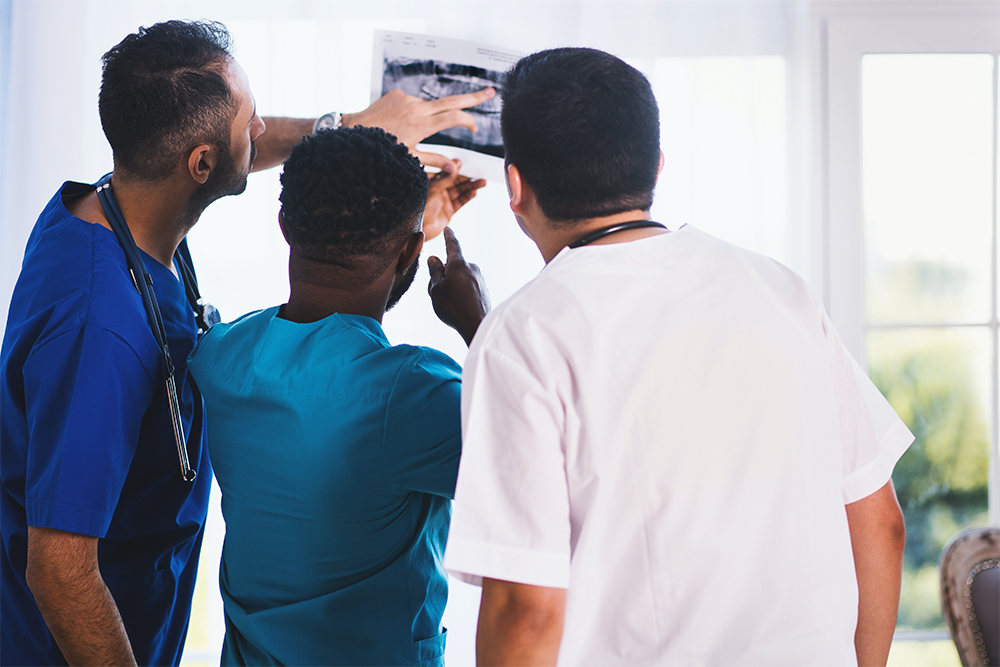
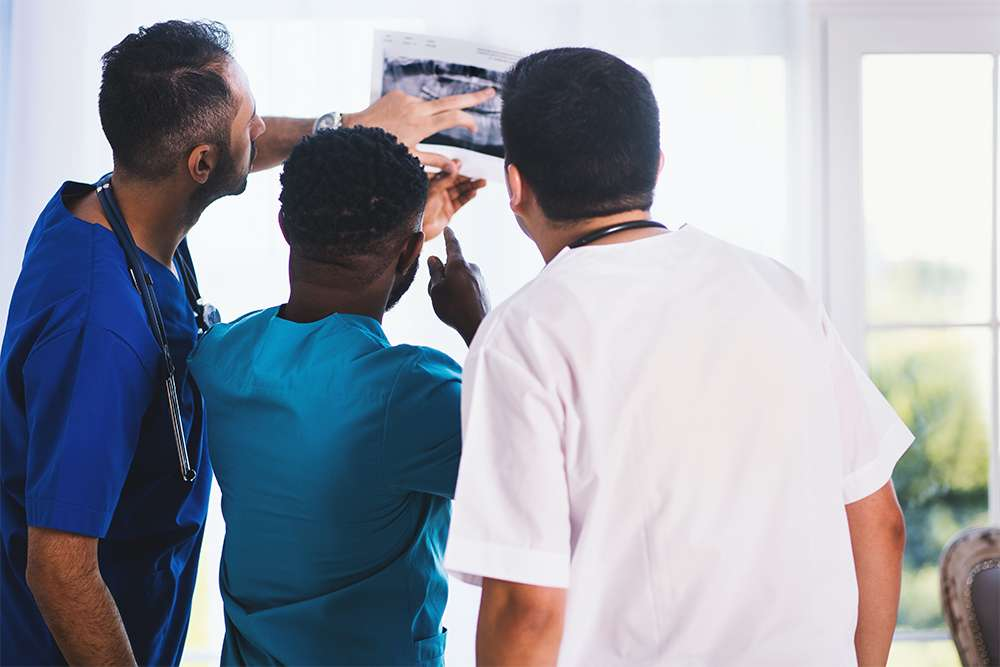
0.1.1

diff --git a/index.html b/index.html
@@ -265,7 +265,7 @@
             <div class="banner">
                 <div class="imagem">
                     <img src='Assets/Imagens/medica_tablet.png' alt="Médica com tablet na mão"
-                        title="Médica com tablet na mão" />
+                        title="Médica com tablet na mão" width="1000px" height="1104px" />
                 </div>
             </div>
         </div>
@@ -283,7 +283,8 @@
             </div>
             <div class="missao">
                 <div class="imagem">
-                    <img src="Assets/Imagens/clinica.jpg" alt="Análise" />
+                    <img src="Assets/Imagens/clinica.jpg" alt="Cliníca Mãe Maria" Title="Cliníca Mãe Maria"
+                        width="1200px" height="800px" />
                 </div>
                 <p>
                     A clínica tem como missão oferecer excelência na realização dos exames de diagnóstico por imagem
@@ -308,7 +309,8 @@
                     <div class="imagem">
                         <img src="Assets/Imagens/selos-qualidade.png"
                             alt="Selos de qualidade e excelência do Colégio Brasileiro de Radiologia e Diagnósticos por Imagem"
-                            title="Selos de qualidade e excelência do Colégio Brasileiro de Radiologia e Diagnósticos por Imagem" />
+                            title="Selos de qualidade e excelência do Colégio Brasileiro de Radiologia e Diagnósticos por Imagem"
+                            width="468px" height="392px" />
                     </div>
                 </div>
                 <p>Conheça os Selos de qualidade e excelência do Colégio Brasileiro de Radiologia e Diagnósticos por
@@ -322,7 +324,9 @@
             </div>
             <div class="equipe">
                 <div class="imagem">
-                    <img src="Assets/Imagens/medico-paciente.png" alt="medico e paciente" />
+                    <img src="Assets/Imagens/medico-paciente.png" alt="Médico cuidando do paciente"
+                    title="Médico cuidando do paciente"
+                    width="1000px" height="984px"  />
                 </div>
                 <div class="pessoas">
                     <div class="pessoa">
@@ -668,20 +672,30 @@
         <div class="container">
             <div class="logos">
                 <img src="Assets/Imagens/planos/bradesco+saude.png" alt="Plano de saúde Bradesco saúde"
-                    title="Plano de saúde Bradesco saúde" />
-                <img src="Assets/Imagens/planos/caesan.png" alt="Plano de saúde CAESAN" title="Plano de saúde CAESAN" />
+                    title="Plano de saúde Bradesco saúde" 
+                    width="150px" height="55px"/>
+                <img src="Assets/Imagens/planos/caesan.png" alt="Plano de saúde CAESAN" title="Plano de saúde CAESAN" 
+                width="150px" height="123px"/>
                 <img src="Assets/Imagens/planos/capesesp.png" alt="Plano de saúde Capesesp"
-                    title="Plano de saúde Capesesp" />
-                <img src="Assets/Imagens/planos/cassi.png" alt="Plano de saúde CASSI" title="Plano de saúde CASSI" />
+                    title="Plano de saúde Capesesp" 
+                    width="150px" height="110px"/>
+                <img src="Assets/Imagens/planos/cassi.png" alt="Plano de saúde CASSI" title="Plano de saúde CASSI" 
+                width="150px" height="75px"/>
                 <img src="Assets/Imagens/planos/celgmed.png" alt="Plano de saúde Celg Med"
-                    title="Plano de saúde Celg Med" />
-                <img src="Assets/Imagens/planos/geap.png" alt="Plano de saúde GEAP" title="Plano de saúde GEAP" />
-                <img src="Assets/Imagens/planos/ipasgo.png" alt="Plano de saúde IPASGO" title="Plano de saúde IPASGO" />
+                    title="Plano de saúde Celg Med" 
+                    width="150px" height="30px"/>
+                <img src="Assets/Imagens/planos/geap.png" alt="Plano de saúde GEAP" title="Plano de saúde GEAP" 
+                width="150px" height="80px"/>
+                <img src="Assets/Imagens/planos/ipasgo.png" alt="Plano de saúde IPASGO" title="Plano de saúde IPASGO" 
+                width="150px" height="42px"/>
                 <img src="Assets/Imagens/planos/posta+saude.png" alt="Plano de saúde Postal Saúde"
-                    title="Plano de saúde Postal Saúde" />
+                    title="Plano de saúde Postal Saúde" 
+                    width="150px" height="102px"/>
                 <img src="Assets/Imagens/planos/saude+caixa.png" alt="Plano de saúde Saúde caixa"
-                    title="Plano de saúde Saúde caixa" />
-                <img src="Assets/Imagens/planos/unimed.png" alt="Plano de saúde Unimed" title="Plano de saúde Unimed" />
+                    title="Plano de saúde Saúde caixa" 
+                    width="150px" height="58px"/>
+                <img src="Assets/Imagens/planos/unimed.png" alt="Plano de saúde Unimed" title="Plano de saúde Unimed" 
+                width="150px" height="54px"/>
             </div>
         </div>
     </section>
@@ -726,7 +740,8 @@
             <div class="resultado">
                 <div class="imagem">
                     <img src="Assets/Imagens/exames.jpg" alt="Resultado dos Exames Clínicos"
-                        title="Resultado dos Exames Clínicos" />
+                        title="Resultado dos Exames Clínicos"
+                        width="1000px" height="667px" />
                 </div>
                 <div class="button">
                     <h3>Veja os resultados dos seus examos agora</h3>
@@ -750,21 +765,21 @@
             </div>
             <div class="informacoes">
                 <div class="contatos">
-                <ul>
-                    <li><a href="tel:(62) 3514-7396" rel="noreferrer, nofollow, noopener">(62)
-                            3514-7396</a></li>
-                    <li><a href="tel:(62) 3514-7407" rel="noreferrer, nofollow, noopener">(62)
-                            3514-7407</a></li>
-                    <li class="redesSociais">
-                        <a>
-                            <svg class="facebook" xmlns="http://www.w3.org/2000/svg" viewBox="0 0 512 512">
-                                <path
-                                    d="m492 352c11.046875 0 20-8.953125 20-20v-252c0-44.113281-35.886719-80-80-80h-352c-44.113281 0-80 35.886719-80 80v352c0 44.113281 35.886719 80 80 80h352c44.113281 0 80-35.886719 80-80 0-11.046875-8.953125-20-20-20s-20 8.953125-20 20c0 22.054688-17.945312 40-40 40h-98v-146h46.289062c10.121094 0 18.648438-7.5625 19.859376-17.609375l2.648437-22c1.429687-11.90625-7.863281-22.390625-19.859375-22.390625h-48.9375v-67c0-16.570312 13.429688-30 30-30h25c11.046875 0 20-8.953125 20-20v-20.230469c0-10.246093-7.738281-18.855469-17.933594-19.894531-10.140625-1.03125-20.871094-1.875-27.066406-1.875-23.324219 0-46.703125 9.839844-64.140625 26.992188-17.964844 17.671874-27.859375 40.820312-27.859375 65.183593v66.824219h-45c-11.046875 0-20 8.953125-20 20v22c0 11.046875 8.953125 20 20 20h45v146h-192c-22.054688 0-40-17.945312-40-40v-352c0-22.054688 17.945312-40 40-40h352c22.054688 0 40 17.945312 40 40v252c0 11.046875 8.953125 20 20 20zm0 0" />
-                            </svg>
-                        </a>
-                        <a>
-                            <svg class="instagram" xmlns="http://www.w3.org/2000/svg" viewBox="0 0 512 512.00006">
-                                <path d=" m261.039062 512c-1.695312 0-3.390624
+                    <ul>
+                        <li><a href="tel:(62) 3514-7396" rel="noreferrer, nofollow, noopener">(62)
+                                3514-7396</a></li>
+                        <li><a href="tel:(62) 3514-7407" rel="noreferrer, nofollow, noopener">(62)
+                                3514-7407</a></li>
+                        <li class="redesSociais">
+                            <a>
+                                <svg class="facebook" xmlns="http://www.w3.org/2000/svg" viewBox="0 0 512 512">
+                                    <path
+                                        d="m492 352c11.046875 0 20-8.953125 20-20v-252c0-44.113281-35.886719-80-80-80h-352c-44.113281 0-80 35.886719-80 80v352c0 44.113281 35.886719 80 80 80h352c44.113281 0 80-35.886719 80-80 0-11.046875-8.953125-20-20-20s-20 8.953125-20 20c0 22.054688-17.945312 40-40 40h-98v-146h46.289062c10.121094 0 18.648438-7.5625 19.859376-17.609375l2.648437-22c1.429687-11.90625-7.863281-22.390625-19.859375-22.390625h-48.9375v-67c0-16.570312 13.429688-30 30-30h25c11.046875 0 20-8.953125 20-20v-20.230469c0-10.246093-7.738281-18.855469-17.933594-19.894531-10.140625-1.03125-20.871094-1.875-27.066406-1.875-23.324219 0-46.703125 9.839844-64.140625 26.992188-17.964844 17.671874-27.859375 40.820312-27.859375 65.183593v66.824219h-45c-11.046875 0-20 8.953125-20 20v22c0 11.046875 8.953125 20 20 20h45v146h-192c-22.054688 0-40-17.945312-40-40v-352c0-22.054688 17.945312-40 40-40h352c22.054688 0 40 17.945312 40 40v252c0 11.046875 8.953125 20 20 20zm0 0" />
+                                </svg>
+                            </a>
+                            <a>
+                                <svg class="instagram" xmlns="http://www.w3.org/2000/svg" viewBox="0 0 512 512.00006">
+                                    <path d=" m261.039062 512c-1.695312 0-3.390624
                                 0-5.097656-.007812-40.132812.097656-77.214844-.921876-113.277344-3.117188-33.0625-2.011719-63.242187-13.4375-87.28125-33.039062-23.195312-18.914063-39.035156-44.488282-47.078124-76.003907-7-27.4375-7.371094-54.371093-7.726563-80.421875-.257813-18.691406-.5234375-40.839844-.578125-63.363281.0546875-22.617187.320312-44.765625.578125-63.457031.355469-26.046875.726563-52.980469
                                 7.726563-80.421875 8.042968-31.515625 23.882812-57.089844 47.078124-76.003907
                                 24.039063-19.601562 54.21875-31.027343 87.285157-33.039062 36.0625-2.191406
@@ -791,23 +806,23 @@
                                 85-85 85-46.867187 0-85-38.132812-85-85s38.132813-85 85-85c46.871094 0 85 38.132812 85
                                 85zm54-165c-16.566406 0-30 13.429688-30 30s13.433594 30 30 30c16.570313 0 30-13.429688
                                 30-30s-13.429687-30-30-30zm0 0" />
-                            </svg>
-                        </a>
-                        <a href="https://api.whatsapp.com/send?phone=+5562984833936"
-                            rel="noreferrer, nofollow, noopener" target="_blank">
-                            <svg xmlns="http://www.w3.org/2000/svg" viewBox="0 -2 512.00001 512">
-                                <path
-                                    d="m255.996094 507.949219h-.101563c-39.945312-.015625-79.550781-9.445313-115.042969-27.335938l-109.40625 24.886719c-6.675781 1.515625-13.667968-.488281-18.527343-5.3125s-6.910157-11.800781-5.441407-18.488281l23.707032-107.757813c-20.367188-37.613281-31.121094-78.808594-31.17968775-119.65625-.00390625-.140625-.00390625-.28125-.00390625-.417968.0273438-67.691407 26.796875-131.441407 75.371094-179.503907 48.464844-47.953125 112.609375-74.363281 180.621094-74.363281 68.164062.0273438 132.207031 26.460938 180.351562 74.425781 48.8125 48.632813 75.679688 112.433594 75.65625 179.644531-.019531 50.792969-15.25 99.882813-44.042969 141.957032-6.238281 9.117187-18.683593 11.449218-27.800781 5.210937-9.113281-6.238281-11.449219-18.683593-5.210938-27.800781 24.222657-35.398438 37.035157-76.679688 37.054688-119.382812.019531-56.496094-22.667969-110.226563-63.886719-151.292969-40.597656-40.449219-94.625-62.738281-152.128906-62.761719-118.917969 0-215.734375 95.742188-215.984375 213.507812 0 .128907.003906.253907.003906.378907-.015625 36.453125 10.238282 73.414062 29.648438 106.886719 2.511718 4.332031 3.308594 9.445312 2.230468 14.332031l-18.566406 84.394531 85.839844-19.527344c4.738281-1.074218 9.707031-.390625 13.980469 1.925782 31.363281 17.027343 66.898437 26.035156 102.765625 26.050781h.089844c39.003906 0 77.308593-10.546875 110.769531-30.496094 9.484375-5.660156 21.761719-2.554687 27.417969 6.933594s2.554687 21.761719-6.933594 27.421875c-39.652344 23.640625-85.039063 36.140625-131.253906 36.140625zm-56.484375-355.730469c-4.386719-9.71875-9.003907-10.050781-13.175781-10.21875h-11.222657c-3.90625 0-10.25 1.460938-15.613281 7.300781-5.367188 5.839844-20.496094 19.957031-20.496094 48.671875s20.984375 56.464844 23.910156 60.363282c2.929688 3.890624 40.511719 64.699218 100.027344 88.09375 49.464844 19.441406 59.53125 15.574218 70.265625 14.597656 10.738281-.96875 34.648438-14.113282 39.523438-27.742188 4.882812-13.625 4.882812-25.304687 3.417969-27.746094-1.460938-2.429687-5.367188-3.890624-11.222657-6.808593-5.859375-2.917969-34.558593-17.28125-39.925781-19.226563-5.367188-1.945312-9.269531-2.917968-13.175781 2.925782-3.90625 5.835937-15.40625 19.332031-18.824219 23.222656-3.414062 3.902344-6.832031 4.386718-12.6875 1.46875-5.855469-2.929688-24.523438-9.199219-46.894531-29.078125-17.410157-15.472657-29.488281-35.199219-32.90625-41.042969-3.417969-5.835938-.367188-9 2.570312-11.910156 2.628907-2.613282 6.1875-6.1875 9.117188-9.59375 2.921875-3.40625 3.757812-5.839844 5.707031-9.734375 1.953125-3.894531.976562-7.300781-.484375-10.222657-1.464844-2.917968-12.707031-31.78125-17.914063-43.320312" />
-                            </svg>
-                        </a>
-                    </li>
-                </ul>
+                                </svg>
+                            </a>
+                            <a href="https://api.whatsapp.com/send?phone=+5562984833936"
+                                rel="noreferrer, nofollow, noopener" target="_blank">
+                                <svg xmlns="http://www.w3.org/2000/svg" viewBox="0 -2 512.00001 512">
+                                    <path
+                                        d="m255.996094 507.949219h-.101563c-39.945312-.015625-79.550781-9.445313-115.042969-27.335938l-109.40625 24.886719c-6.675781 1.515625-13.667968-.488281-18.527343-5.3125s-6.910157-11.800781-5.441407-18.488281l23.707032-107.757813c-20.367188-37.613281-31.121094-78.808594-31.17968775-119.65625-.00390625-.140625-.00390625-.28125-.00390625-.417968.0273438-67.691407 26.796875-131.441407 75.371094-179.503907 48.464844-47.953125 112.609375-74.363281 180.621094-74.363281 68.164062.0273438 132.207031 26.460938 180.351562 74.425781 48.8125 48.632813 75.679688 112.433594 75.65625 179.644531-.019531 50.792969-15.25 99.882813-44.042969 141.957032-6.238281 9.117187-18.683593 11.449218-27.800781 5.210937-9.113281-6.238281-11.449219-18.683593-5.210938-27.800781 24.222657-35.398438 37.035157-76.679688 37.054688-119.382812.019531-56.496094-22.667969-110.226563-63.886719-151.292969-40.597656-40.449219-94.625-62.738281-152.128906-62.761719-118.917969 0-215.734375 95.742188-215.984375 213.507812 0 .128907.003906.253907.003906.378907-.015625 36.453125 10.238282 73.414062 29.648438 106.886719 2.511718 4.332031 3.308594 9.445312 2.230468 14.332031l-18.566406 84.394531 85.839844-19.527344c4.738281-1.074218 9.707031-.390625 13.980469 1.925782 31.363281 17.027343 66.898437 26.035156 102.765625 26.050781h.089844c39.003906 0 77.308593-10.546875 110.769531-30.496094 9.484375-5.660156 21.761719-2.554687 27.417969 6.933594s2.554687 21.761719-6.933594 27.421875c-39.652344 23.640625-85.039063 36.140625-131.253906 36.140625zm-56.484375-355.730469c-4.386719-9.71875-9.003907-10.050781-13.175781-10.21875h-11.222657c-3.90625 0-10.25 1.460938-15.613281 7.300781-5.367188 5.839844-20.496094 19.957031-20.496094 48.671875s20.984375 56.464844 23.910156 60.363282c2.929688 3.890624 40.511719 64.699218 100.027344 88.09375 49.464844 19.441406 59.53125 15.574218 70.265625 14.597656 10.738281-.96875 34.648438-14.113282 39.523438-27.742188 4.882812-13.625 4.882812-25.304687 3.417969-27.746094-1.460938-2.429687-5.367188-3.890624-11.222657-6.808593-5.859375-2.917969-34.558593-17.28125-39.925781-19.226563-5.367188-1.945312-9.269531-2.917968-13.175781 2.925782-3.90625 5.835937-15.40625 19.332031-18.824219 23.222656-3.414062 3.902344-6.832031 4.386718-12.6875 1.46875-5.855469-2.929688-24.523438-9.199219-46.894531-29.078125-17.410157-15.472657-29.488281-35.199219-32.90625-41.042969-3.417969-5.835938-.367188-9 2.570312-11.910156 2.628907-2.613282 6.1875-6.1875 9.117188-9.59375 2.921875-3.40625 3.757812-5.839844 5.707031-9.734375 1.953125-3.894531.976562-7.300781-.484375-10.222657-1.464844-2.917968-12.707031-31.78125-17.914063-43.320312" />
+                                </svg>
+                            </a>
+                        </li>
+                    </ul>
                 </div>
                 <div class="logoFooter">
                     <div class="logo">
                         <a href="#Inicio">
                             <img src="Assets/Imagens/logo+clinica+mae+maria.png" alt="Clínica Mãe Maria"
-                                title="Clínica Mãe Maria" />
+                                title="Clínica Mãe Maria" width="300px" height="182px" />
                         </a>
                     </div>
                 </div>

diff --git a/Assets/Css/Style.css b/Assets/Css/Style.css
@@ -1126,7 +1126,7 @@ footer .linhaRodape .direitos p {
 
 @media screen and (min-width: 820px) {
   header nav .container .logo {
-    width: 21%;
+    width: 13%;
   }
   header nav .container .logo img {
     width: 89px;
@@ -1135,6 +1135,7 @@ footer .linhaRodape .direitos p {
     display: none;
   }
   header nav .container .menus {
+    max-width: 987px;
     height: -webkit-fit-content;
     height: -moz-fit-content;
     height: fit-content;
@@ -1173,7 +1174,7 @@ footer .linhaRodape .direitos p {
     margin: 8px 0;
     text-align: center;
     font-weight: 300;
-    font-size: 0.8em;
+    font-size: 12px;
     opacity: 1;
   }
   header nav .container .menus ul li svg {
@@ -1192,6 +1193,8 @@ footer .linhaRodape .direitos p {
     margin: 55px 0;
   }
   section.um {
+    padding-top: 89px;
+    min-height: 80vh;
     margin-top: 0;
   }
   section.um .container {
@@ -1290,6 +1293,9 @@ footer .linhaRodape .direitos p {
     padding-left: 89px;
     margin: 0;
   }
+  section.tres .equipe .pessoas .pessoa .nome h4 {
+    width: 100%;
+  }
   section.tres .equipe .pessoas .pessoa .infoPessoas {
     min-height: 55px;
   }
@@ -1312,6 +1318,8 @@ footer .linhaRodape .direitos p {
   }
   section.quatro .esquerda svg,
   section.quatro .direita svg {
+    width: 100%;
+    padding: 8px;
     -webkit-transition: 0.15s ease-in;
     transition: 0.15s ease-in;
   }

diff --git a/Assets/Css/Style.scss b/Assets/Css/Style.scss
@@ -837,7 +837,7 @@ footer {
     nav {
       .container {
         .logo {
-          width: 21%;
+          width: 13%;
           img {
             width: 89px;
           }
@@ -846,6 +846,7 @@ footer {
           display: none;
         }
         .menus {
+          max-width: 987px;
           height: fit-content;
           flex-direction: row;
           justify-content: space-between;
@@ -865,7 +866,7 @@ footer {
               margin: 8px 0;
               text-align: center;
               font-weight: 300;
-              font-size: 0.8em;
+              font-size: 12px;
               opacity: 1;
               svg {
                 width: 21px;
@@ -890,6 +891,8 @@ footer {
     margin: 55px 0;
   }
   section.um {
+    padding-top: 89px;
+    min-height: 80vh;
     margin-top: 0;
     .container {
       display: flex;
@@ -964,6 +967,11 @@ footer {
         padding-left: 89px;
         margin: 0;
         .pessoa {
+          .nome {
+            h4 {
+              width: 100%;
+            }
+          }
           .infoPessoas {
             min-height: 55px;
             p {
@@ -987,6 +995,8 @@ footer {
       position: absolute;
       z-index: 2;
       svg {
+        width: 100%;
+        padding: 8px;
         transition: 0.15s ease-in;
       }
     }
